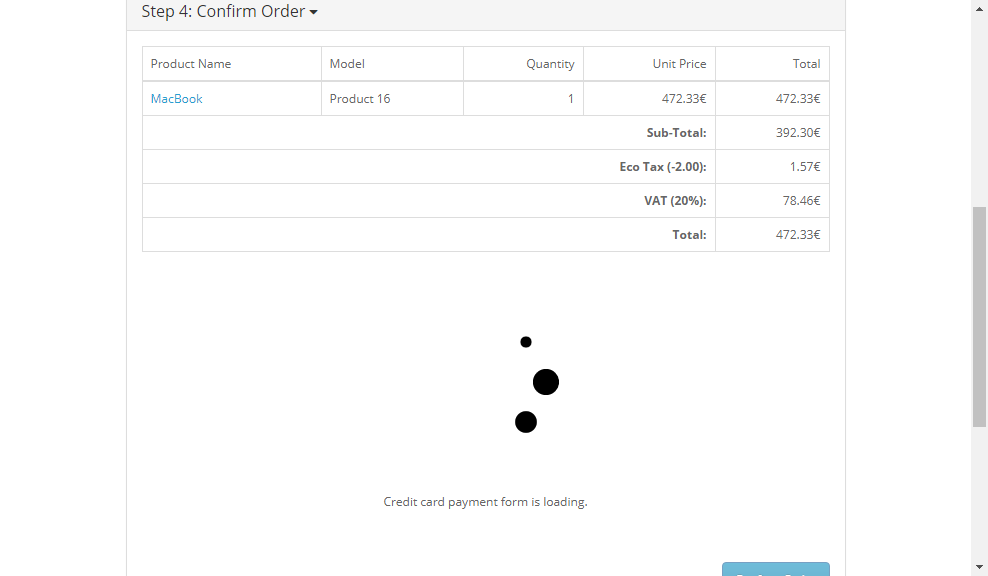
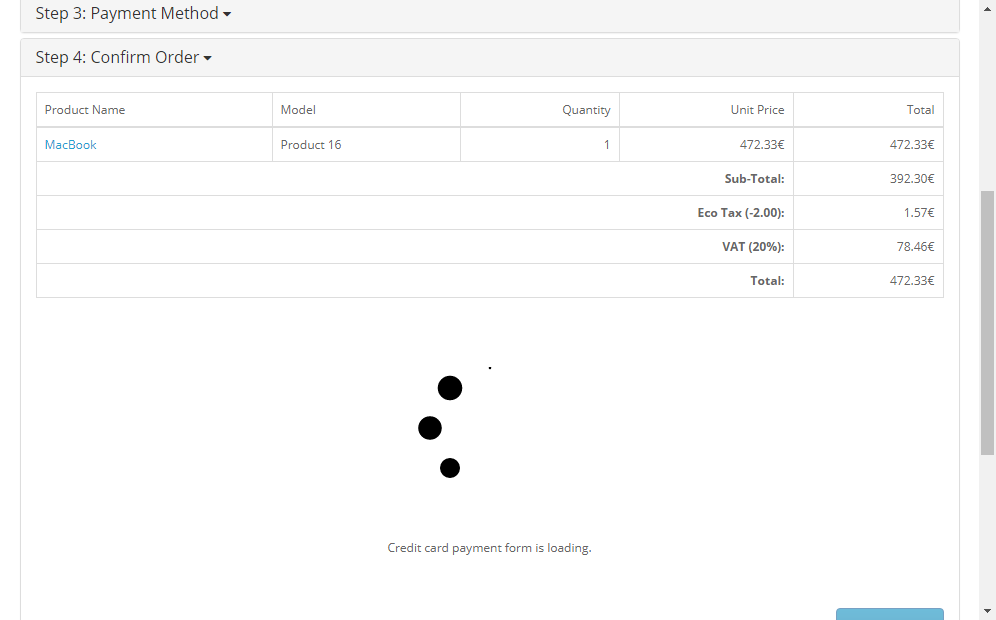
Add failed test screenshots from https://travis-ci.com/wirecard/opencart-ee/builds/134218535

diff --git a/opencart-ee-3.0.3.2/API-TEST/2019-10-30/CreditCard3DSPurchaseHappyPath.purchase.fail.html b/opencart-ee-3.0.3.2/API-TEST/2019-10-30/CreditCard3DSPurchaseHappyPath.purchase.fail.html
@@ -155,7 +155,7 @@
                                 <li><a href="http://opencart-ui-API-TEST-1.ngrok.io/index.php?route=product/category&amp;path=24">Phones &amp; PDAs</a></li>
                                 <li><a href="http://opencart-ui-API-TEST-1.ngrok.io/index.php?route=product/category&amp;path=33">Cameras</a></li>
                                 <li class="dropdown"><a href="http://opencart-ui-API-TEST-1.ngrok.io/index.php?route=product/category&amp;path=34" class="dropdown-toggle" data-toggle="dropdown">MP3 Players</a>
-          <div class="dropdown-menu" style="">
+          <div class="dropdown-menu" style="margin-left: -408.625px;">
             <div class="dropdown-inner">               <ul class="list-unstyled">
                                 <li><a href="http://opencart-ui-API-TEST-1.ngrok.io/index.php?route=product/category&amp;path=34_43">test 11 (0)</a></li>
                                 <li><a href="http://opencart-ui-API-TEST-1.ngrok.io/index.php?route=product/category&amp;path=34_44">test 12 (0)</a></li>
@@ -1841,11 +1841,11 @@ $('#collapse-payment-address select[name=\'country_id\']').trigger('change');
     
   </table>
 </div>
-        <script type="text/javascript" src="https://h.wirecard.com/fp/tags.js?org_id=6xxznhva&amp;session_id=53f2895a-e4de-4e82-a813-0d87a10e55e6_84d816784aa6d006df861f7900d58a9f">
+        <script type="text/javascript" src="https://h.wirecard.com/fp/tags.js?org_id=6xxznhva&amp;session_id=53f2895a-e4de-4e82-a813-0d87a10e55e6_3014b8e2e28118ee875ab2aa6f915756">
         </script>
         <noscript>
             <iframe style="width: 100px; height: 100px; border: 0; position: absolute; top: -5000px;"
-                    src="https://h.wirecard.com/tags?org_id=6xxznhva&session_id=53f2895a-e4de-4e82-a813-0d87a10e55e6_84d816784aa6d006df861f7900d58a9f"></iframe>
+                    src="https://h.wirecard.com/tags?org_id=6xxznhva&session_id=53f2895a-e4de-4e82-a813-0d87a10e55e6_3014b8e2e28118ee875ab2aa6f915756"></iframe>
         </noscript>
     <div id="error-message" class="alert alert-danger" style="display: none;"><i class="fa fa-exclamation-circle"></i>
     <span></span> <strong id="deleted-pan"></strong>.
@@ -1866,7 +1866,7 @@ $('#collapse-payment-address select[name=\'country_id\']').trigger('change');
 <div class="buttons clearfix">
     <div class="pull-right">
 
-                <input type="hidden" value="53f2895a-e4de-4e82-a813-0d87a10e55e6_84d816784aa6d006df861f7900d58a9f" id="input-fingerprint-session" name="fingerprint-session">
+                <input type="hidden" value="53f2895a-e4de-4e82-a813-0d87a10e55e6_3014b8e2e28118ee875ab2aa6f915756" id="input-fingerprint-session" name="fingerprint-session">
         
         
         <input type="button" value="Confirm Order" id="button-confirm" data-loading-text="Loading..." class="btn btn-primary" disabled="">
@@ -2546,4 +2546,4 @@ $(document).delegate('#button-payment-method', 'click', function() {
 OpenCart is open source software and you are free to remove the powered by OpenCart if you want, but its generally accepted practise to make a small donation.
 Please donate via PayPal to donate@opencart.com
 //-->
-<iframe src="about:blank" id="tmx_tags_iframe" title="empty" tabindex="-1" aria-disabled="true" aria-hidden="true" style="width: 100px; height: 100px; border: 0px; position: absolute; top: -5000px;"></iframe><iframe id="tdz_ifrm" title="empty" name="" width="0px" height="0px" marginwidth="0" marginheight="0" frameborder="0" style="display:none !important; z-index:-9999 !important; visibility:hidden !important" aria-disabled="true" aria-hidden="true" tabindex="-1" src="https://h.wirecard.com/fp/HP?session_id=53f2895a-e4de-4e82-a813-0d87a10e55e6_84d816784aa6d006df861f7900d58a9f&amp;org_id=6xxznhva&amp;nonce=65626d2e079a454b&amp;mode=2&amp;hp=.co-operativebank.co.uk/CBIBSWeb/login.do.co-operativebank.co.uk/CBIBSWeb/start.do.de/portal/portal/x.entropay.com/basemenu/prot/x.facebook.comx.nationet.com/x.netbank.commbank.com.au/netbank/bankmainx.npbs.co.uk/netmastergoldbanking/x.nwolb.xlogin.aspx?refereridentx.rbsdigital.xAccountSummaryx.smile.co.uk/SmileWeb/login.do.smile.co.uk/SmileWeb/start.do.yandex.rux/CapitalOne_Consumer/x/easypay.by/x/sbank.ru/x53.com/servlet/efsonlinex://online.wellsfargo.com/x://secure.assist.ru/assistid/protected/main.doxabbeynational.co.uk/EBAN_ENS/BtoChannelDriverxalliance-leicesterxaltergold.com/login.phpxamericanexpress.com/myca/intl/acctsumm/emea/accountSummaryxbancaintesa.it/xbankcardservices.co.ukxbankofamerica.com/xbanquepopulaire.fr/xbnpparibas.net/xcahoot.comxcapitaloneonline.co.uk/CapitalOne_Consumer/Transactionsxcbonline.co.uk/ralu/reglm-web/setupSecurityQuestionPagexcibc.comxPreSignOnxcibc.comxSignOnxcitibank.ru/xclient.uralsibbank.ruxco-operativebank.co.uk/CBIBSWeb/loginSpixcommerceonlinebanking.comxcoventrybuildingsociety.co.ukxdeutsche-bank.dexdiscovercard.com/cardmembersvcs/strongauth/app/sa_mainxebanking.bawag.comxebc_ebc1961xegg.com/customer/movemoneyxegg.com/customer/yourmoneyxfacebook.com/xhalifax-online.co.ukxMyAccountsxhalifax-online.co.uk/x/Mhalifax-online.co.uk/personalxhsbc.co.uk/1/2/personal/internet-banking/xhsbc.comxhttps://banking.postbank.de/app/finanzstatus.init.do;jsessionidxib.fineco.it/FinecoWeb/BonificiServletxib.fineco.it/FinecoWeb/jsp/Main/HBFineco.jspxib.fineco.it/FinecoWeb/jsp/Main/Principale.jspxibank.alfabank.ruxin-biz.it/xipko.plxlibertyreserve.com/x/historylibertyreserve.com/x/loginwww.libertyreserve.com/x/Core.jswww.libertyreserve.com/x/transfer.libertyreserve.com/x/commonscript.jslloydstsb.co.uk/personal/a/account_overview/xmbna.co.ukxmenyala.ruxmoney.yandex.ruxmoneybookers.com/app/login.plxmoneymail.ruxmy.ebay.co.uk/ws/eBayISAPI.dll?MyEbayxmy.ebay.com/ws/eBayISAPI.dll?MyEbayxmy.ebay.fr/ws/eBayISAPI.dll?MyEbayxmybusinessbank.co.ukxnationet.com/AppServices/SignOn/SignOnProcess/RcaSignOnxnpbs.co.ukxnwolb.com/AccountSummaryxnwolb.com/Statementsxnwolb.com/TransfersLandingPagexoltx.fidelity.com/x/x/ofsummary/summaryxonline.lloydstsb.co.ukxonlinebanking.mandtbank.com/summary/AccountSummaryxpassport.yandex.ruxpaypal.com/x/cgi-bin/webscr?cmd=_accountxpaypal.com/x/cgi-bin/webscr?cmd=_login-done&amp;login_access=xpaypal.com/us/cgi-bin/webscr?cmd=_login-done&amp;login_access=xposte.it/xpsk.co.at/xsecure.lloydstsb.co.uk/personal/a/account_overviewxsmile.co.uk/SmileWeb/passcodexusaa.com/xusbank.com/internetBanking/RequestRouter?requestCmdId=Gxwachovia.comxybonline.co.uk/ralu/reglm-web/setupSecurityQuestionPagex.amazon.fr/xhistory/orders/view.htmlx.banquepopulaire.frxShowPortal.dox.bnpparibasfortis.bexHome_Logon.aspx.cdiscount.com/Account/Home.aspxx.cmb.frxaccueil.jspx.credit-agricole.frxentreeBam?sessionSAGx.labanquepostale.fr/xreleveCPP-releve_ccp.eax.secure.bnpparibas.net/NSFR?Actionx.secure.lcl.frxAccueilxcredem.it/OneToOne/ebank/functionsxmijn.ing.nl/xonline.ybs.co.ukxwww.discover.com/xorder.cdiscount.comxCustomer.aspxxsealinfo.verisign.com/splash?form_filexvos-comptes.credit-du-nord.fr/CDC_TableauDeBord_0.asp?xvoscomptesenligne.labanquepostale.frxwww.x.caisse-epargne.fr/Portail.aspxxwww.exabanque.netxonglet.phpxdeutsche-bank.de/xnorisbank.de/xpostbank.de/xtargobank.de/x.x.de/portal/x.bankofamerica.com/x/commonscript.js.bmo.com/OLB?id=x.bmo.com/RMC?id=x.chase.com/x.aspxx.chase.com/js/Reporting.jsx.koodomobile.com/account/selfserve/x/xaccountId=x.payment.ru/x.scotiabank.com/portal/index.jsp?xbancopopular.es/empresasxcreval.it/login2007/loginSiciliano.aspxfirst-direct.com/xipko.plxmybusinessbank.co.ukxsanpaoloimi.com/xulsterbankanytimebanking.x/login.aspxx"></iframe></body></html>
+<iframe src="about:blank" id="tmx_tags_iframe" title="empty" tabindex="-1" aria-disabled="true" aria-hidden="true" style="width: 100px; height: 100px; border: 0px; position: absolute; top: -5000px;"></iframe><iframe id="tdz_ifrm" title="empty" name="" width="0px" height="0px" marginwidth="0" marginheight="0" frameborder="0" style="display:none !important; z-index:-9999 !important; visibility:hidden !important" aria-disabled="true" aria-hidden="true" tabindex="-1" src="https://h.wirecard.com/fp/HP?session_id=53f2895a-e4de-4e82-a813-0d87a10e55e6_3014b8e2e28118ee875ab2aa6f915756&amp;org_id=6xxznhva&amp;nonce=7246268c2532a7fc&amp;mode=2&amp;hp=.co-operativebank.co.uk/CBIBSWeb/login.do.co-operativebank.co.uk/CBIBSWeb/start.do.de/portal/portal/x.entropay.com/basemenu/prot/x.facebook.comx.nationet.com/x.netbank.commbank.com.au/netbank/bankmainx.npbs.co.uk/netmastergoldbanking/x.nwolb.xlogin.aspx?refereridentx.rbsdigital.xAccountSummaryx.smile.co.uk/SmileWeb/login.do.smile.co.uk/SmileWeb/start.do.yandex.rux/CapitalOne_Consumer/x/easypay.by/x/sbank.ru/x53.com/servlet/efsonlinex://online.wellsfargo.com/x://secure.assist.ru/assistid/protected/main.doxabbeynational.co.uk/EBAN_ENS/BtoChannelDriverxalliance-leicesterxaltergold.com/login.phpxamericanexpress.com/myca/intl/acctsumm/emea/accountSummaryxbancaintesa.it/xbankcardservices.co.ukxbankofamerica.com/xbanquepopulaire.fr/xbnpparibas.net/xcahoot.comxcapitaloneonline.co.uk/CapitalOne_Consumer/Transactionsxcbonline.co.uk/ralu/reglm-web/setupSecurityQuestionPagexcibc.comxPreSignOnxcibc.comxSignOnxcitibank.ru/xclient.uralsibbank.ruxco-operativebank.co.uk/CBIBSWeb/loginSpixcommerceonlinebanking.comxcoventrybuildingsociety.co.ukxdeutsche-bank.dexdiscovercard.com/cardmembersvcs/strongauth/app/sa_mainxebanking.bawag.comxebc_ebc1961xegg.com/customer/movemoneyxegg.com/customer/yourmoneyxfacebook.com/xhalifax-online.co.ukxMyAccountsxhalifax-online.co.uk/x/Mhalifax-online.co.uk/personalxhsbc.co.uk/1/2/personal/internet-banking/xhsbc.comxhttps://banking.postbank.de/app/finanzstatus.init.do;jsessionidxib.fineco.it/FinecoWeb/BonificiServletxib.fineco.it/FinecoWeb/jsp/Main/HBFineco.jspxib.fineco.it/FinecoWeb/jsp/Main/Principale.jspxibank.alfabank.ruxin-biz.it/xipko.plxlibertyreserve.com/x/historylibertyreserve.com/x/loginwww.libertyreserve.com/x/Core.jswww.libertyreserve.com/x/transfer.libertyreserve.com/x/commonscript.jslloydstsb.co.uk/personal/a/account_overview/xmbna.co.ukxmenyala.ruxmoney.yandex.ruxmoneybookers.com/app/login.plxmoneymail.ruxmy.ebay.co.uk/ws/eBayISAPI.dll?MyEbayxmy.ebay.com/ws/eBayISAPI.dll?MyEbayxmy.ebay.fr/ws/eBayISAPI.dll?MyEbayxmybusinessbank.co.ukxnationet.com/AppServices/SignOn/SignOnProcess/RcaSignOnxnpbs.co.ukxnwolb.com/AccountSummaryxnwolb.com/Statementsxnwolb.com/TransfersLandingPagexoltx.fidelity.com/x/x/ofsummary/summaryxonline.lloydstsb.co.ukxonlinebanking.mandtbank.com/summary/AccountSummaryxpassport.yandex.ruxpaypal.com/x/cgi-bin/webscr?cmd=_accountxpaypal.com/x/cgi-bin/webscr?cmd=_login-done&amp;login_access=xpaypal.com/us/cgi-bin/webscr?cmd=_login-done&amp;login_access=xposte.it/xpsk.co.at/xsecure.lloydstsb.co.uk/personal/a/account_overviewxsmile.co.uk/SmileWeb/passcodexusaa.com/xusbank.com/internetBanking/RequestRouter?requestCmdId=Gxwachovia.comxybonline.co.uk/ralu/reglm-web/setupSecurityQuestionPagex.amazon.fr/xhistory/orders/view.htmlx.banquepopulaire.frxShowPortal.dox.bnpparibasfortis.bexHome_Logon.aspx.cdiscount.com/Account/Home.aspxx.cmb.frxaccueil.jspx.credit-agricole.frxentreeBam?sessionSAGx.labanquepostale.fr/xreleveCPP-releve_ccp.eax.secure.bnpparibas.net/NSFR?Actionx.secure.lcl.frxAccueilxcredem.it/OneToOne/ebank/functionsxmijn.ing.nl/xonline.ybs.co.ukxwww.discover.com/xorder.cdiscount.comxCustomer.aspxxsealinfo.verisign.com/splash?form_filexvos-comptes.credit-du-nord.fr/CDC_TableauDeBord_0.asp?xvoscomptesenligne.labanquepostale.frxwww.x.caisse-epargne.fr/Portail.aspxxwww.exabanque.netxonglet.phpxdeutsche-bank.de/xnorisbank.de/xpostbank.de/xtargobank.de/x.x.de/portal/x.bankofamerica.com/x/commonscript.js.bmo.com/OLB?id=x.bmo.com/RMC?id=x.chase.com/x.aspxx.chase.com/js/Reporting.jsx.koodomobile.com/account/selfserve/x/xaccountId=x.payment.ru/x.scotiabank.com/portal/index.jsp?xbancopopular.es/empresasxcreval.it/login2007/loginSiciliano.aspxfirst-direct.com/xipko.plxmybusinessbank.co.ukxsanpaoloimi.com/xulsterbankanytimebanking.x/login.aspxx"></iframe></body></html>

diff --git a/opencart-ee-3.0.3.2/API-TEST/2019-10-30/report.html b/opencart-ee-3.0.3.2/API-TEST/2019-10-30/report.html
@@ -215,7 +215,7 @@
      <li> <a href="#" title="Incomplete" onClick="toggleScenarios('scenarioIncomplete', this.parentElement)"><strong>I</strong> 0</a></li>
    </ul>
  <div class="layout">
- <h1>Codeception Results <small><span style="color: #e74c3c">FAILED</span> (26.5s)</small></h1>
+ <h1>Codeception Results <small><span style="color: #e74c3c">FAILED</span> (32.6s)</small></h1>
 
 
 
@@ -227,7 +227,7 @@
 </tr>   <tr class="scenarioRow scenarioFailed">
     <td>
      <p class="scenarioFailed" onclick="showHide('1', this)"><span class="toggle">+</span>
-          <span class="quiet">CreditCard3DSPurchaseHappyPath &raquo;</span> purchase <span style="color: #34495e; font-size: 70%;">26.54s</span></p>
+          <span class="quiet">CreditCard3DSPurchaseHappyPath &raquo;</span> purchase <span style="color: #34495e; font-size: 70%;">32.57s</span></p>
     </td>
    </tr>
    <tr class="scenarioRow scenarioFailed">
@@ -248,13 +248,13 @@
       </tr>
 
 <tr>
- <td class="stepName " ><p onclick="showHide('5db997809918b', this)"><span class="toggle">+</span> Given i prepare checkout</p>
+ <td class="stepName " ><p onclick="showHide('5db9a8e6320c1', this)"><span class="toggle">+</span> Given i prepare checkout</p>
 
      </td>
 </tr>
 <tr>
  <td class="nostyle">
-  <table border="0" width="100%" class="substeps scenarioStepsTable" id="stepContainer5db997809918b">
+  <table border="0" width="100%" class="substeps scenarioStepsTable" id="stepContainer5db9a8e6320c1">
           <tr>
        <td class="stepName ">&nbsp;&nbsp;&nbsp;&nbsp;<strong></strong></td>
       </tr>
@@ -304,13 +304,13 @@
  </td>
 </tr>
 <tr>
- <td class="stepName " ><p onclick="showHide('5db9978099260', this)"><span class="toggle">+</span> And i fill fields with "customer data"</p>
+ <td class="stepName " ><p onclick="showHide('5db9a8e6321d1', this)"><span class="toggle">+</span> And i fill fields with "customer data"</p>
 
      </td>
 </tr>
 <tr>
  <td class="nostyle">
-  <table border="0" width="100%" class="substeps scenarioStepsTable" id="stepContainer5db9978099260">
+  <table border="0" width="100%" class="substeps scenarioStepsTable" id="stepContainer5db9a8e6321d1">
           <tr>
        <td class="stepName ">&nbsp;&nbsp;&nbsp;&nbsp;<strong></strong></td>
       </tr>
@@ -416,13 +416,13 @@
  </td>
 </tr>
 <tr>
- <td class="stepName " ><p onclick="showHide('5db997809938d', this)"><span class="toggle">+</span> Then i see "wirecard credit card"</p>
+ <td class="stepName " ><p onclick="showHide('5db9a8e6322aa', this)"><span class="toggle">+</span> Then i see "wirecard credit card"</p>
 
      </td>
 </tr>
 <tr>
  <td class="nostyle">
-  <table border="0" width="100%" class="substeps scenarioStepsTable" id="stepContainer5db997809938d">
+  <table border="0" width="100%" class="substeps scenarioStepsTable" id="stepContainer5db9a8e6322aa">
           <tr>
        <td class="stepName ">&nbsp;&nbsp;&nbsp;&nbsp;<strong></strong></td>
       </tr>
@@ -436,13 +436,13 @@
  </td>
 </tr>
 <tr>
- <td class="stepName " ><p onclick="showHide('5db997809944f', this)"><span class="toggle">+</span> Given i check "i have read and agree to the terms & conditions"</p>
+ <td class="stepName " ><p onclick="showHide('5db9a8e632332', this)"><span class="toggle">+</span> Given i check "i have read and agree to the terms & conditions"</p>
 
      </td>
 </tr>
 <tr>
  <td class="nostyle">
-  <table border="0" width="100%" class="substeps scenarioStepsTable" id="stepContainer5db997809944f">
+  <table border="0" width="100%" class="substeps scenarioStepsTable" id="stepContainer5db9a8e632332">
           <tr>
        <td class="stepName ">&nbsp;&nbsp;&nbsp;&nbsp;<strong></strong></td>
       </tr>
@@ -456,13 +456,13 @@
  </td>
 </tr>
 <tr>
- <td class="stepName " ><p onclick="showHide('5db99780994e9', this)"><span class="toggle">+</span> And i click "continue"</p>
+ <td class="stepName " ><p onclick="showHide('5db9a8e6323ac', this)"><span class="toggle">+</span> And i click "continue"</p>
 
      </td>
 </tr>
 <tr>
  <td class="nostyle">
-  <table border="0" width="100%" class="substeps scenarioStepsTable" id="stepContainer5db99780994e9">
+  <table border="0" width="100%" class="substeps scenarioStepsTable" id="stepContainer5db9a8e6323ac">
           <tr>
        <td class="stepName ">&nbsp;&nbsp;&nbsp;&nbsp;<strong></strong></td>
       </tr>
@@ -484,13 +484,13 @@
  </td>
 </tr>
 <tr>
- <td class="stepName failedStep" ><p onclick="showHide('5db9978099566', this)"><span class="toggle">+</span> When i fill fields with "valid credit card data"</p>
+ <td class="stepName failedStep" ><p onclick="showHide('5db9a8e63242d', this)"><span class="toggle">+</span> When i fill fields with "valid credit card data"</p>
 
      </td>
 </tr>
 <tr>
  <td class="nostyle">
-  <table border="0" width="100%" class="substeps scenarioStepsTable" id="stepContainer5db9978099566">
+  <table border="0" width="100%" class="substeps scenarioStepsTable" id="stepContainer5db9a8e63242d">
           <tr>
        <td class="stepName ">&nbsp;&nbsp;&nbsp;&nbsp;<strong></strong></td>
       </tr>
@@ -524,13 +524,13 @@
     <td class="error">
         javascript error: Cannot read property 'getAttribute' of null<br />
   (Session info: chrome=77.0.3865.75)<br />
-  (Driver info: chromedriver=77.0.3865.40 (f484704e052e0b556f8030b65b953dce96503217-refs/branch-heads/3865@{#442}),platform=Windows NT 10.0.17134 x86_64) (WARNING: The server did not provide any stacktrace information)<br />
-Command duration or timeout: 34 milliseconds<br />
+  (Driver info: chromedriver=77.0.3865.40 (f484704e052e0b556f8030b65b953dce96503217-refs/branch-heads/3865@{#442}),platform=Windows NT 6.1.7601 SP1 x86_64) (WARNING: The server did not provide any stacktrace information)<br />
+Command duration or timeout: 79 milliseconds<br />
 Build info: version: '2.53.0', revision: '35ae25b', time: '2016-03-15 17:00:58'<br />
-System info: host: '199-7-165-93', ip: '199.7.165.93', os.name: 'windows', os.arch: 'x86', os.version: '10.0', java.version: '1.8.0_181'<br />
+System info: host: '207-254-19-102', ip: '207.254.19.102', os.name: 'windows', os.arch: 'x86', os.version: '6.1', java.version: '1.8.0_151'<br />
 Driver info: org.openqa.selenium.chrome.ChromeDriver<br />
-Capabilities [{mobileEmulationEnabled=false, timeouts={implicit=0, pageLoad=300000, script=30000}, hasTouchScreen=false, platform=XP, acceptSslCerts=false, goog:chromeOptions={debuggerAddress=localhost:2810}, acceptInsecureCerts=false, webStorageEnabled=true, browserName=chrome, takesScreenshot=true, javascriptEnabled=true, setWindowRect=true, unexpectedAlertBehaviour=ignore, applicationCacheEnabled=false, rotatable=false, networkConnectionEnabled=false, chrome={chromedriverVersion=77.0.3865.40 (f484704e052e0b556f8030b65b953dce96503217-refs/branch-heads/3865@{#442}), userDataDir=C:\Windows\proxy\scoped_dir7292_1924245498}, takesHeapSnapshot=true, pageLoadStrategy=normal, strictFileInteractability=false, databaseEnabled=false, handlesAlerts=true, version=77.0.3865.75, browserConnectionEnabled=false, proxy={}, nativeEvents=true, locationContextEnabled=true, cssSelectorsEnabled=true}]<br />
-Session ID: 83d3255a8cbb84882295cc1ac8a9ae6f
+Capabilities [{mobileEmulationEnabled=false, timeouts={implicit=0, pageLoad=300000, script=30000}, hasTouchScreen=false, platform=XP, acceptSslCerts=false, goog:chromeOptions={debuggerAddress=localhost:1608}, acceptInsecureCerts=false, webStorageEnabled=true, browserName=chrome, takesScreenshot=true, javascriptEnabled=true, setWindowRect=true, unexpectedAlertBehaviour=ignore, applicationCacheEnabled=false, rotatable=false, networkConnectionEnabled=false, chrome={chromedriverVersion=77.0.3865.40 (f484704e052e0b556f8030b65b953dce96503217-refs/branch-heads/3865@{#442}), userDataDir=C:\Windows\proxy\scoped_dir5348_779198848}, takesHeapSnapshot=true, pageLoadStrategy=normal, strictFileInteractability=false, databaseEnabled=false, handlesAlerts=true, version=77.0.3865.75, browserConnectionEnabled=false, proxy={}, nativeEvents=true, locationContextEnabled=true, cssSelectorsEnabled=true}]<br />
+Session ID: ef3870da1b2a0b43550773cb47f856a7
     </td>
 </tr>
 
